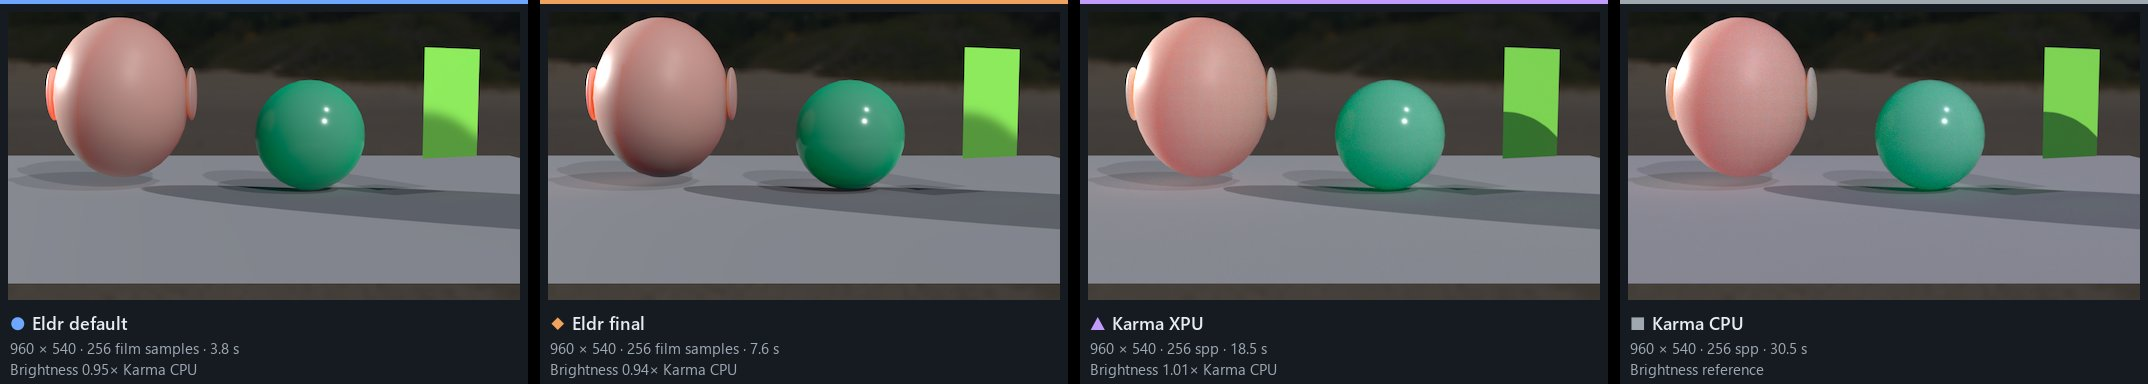
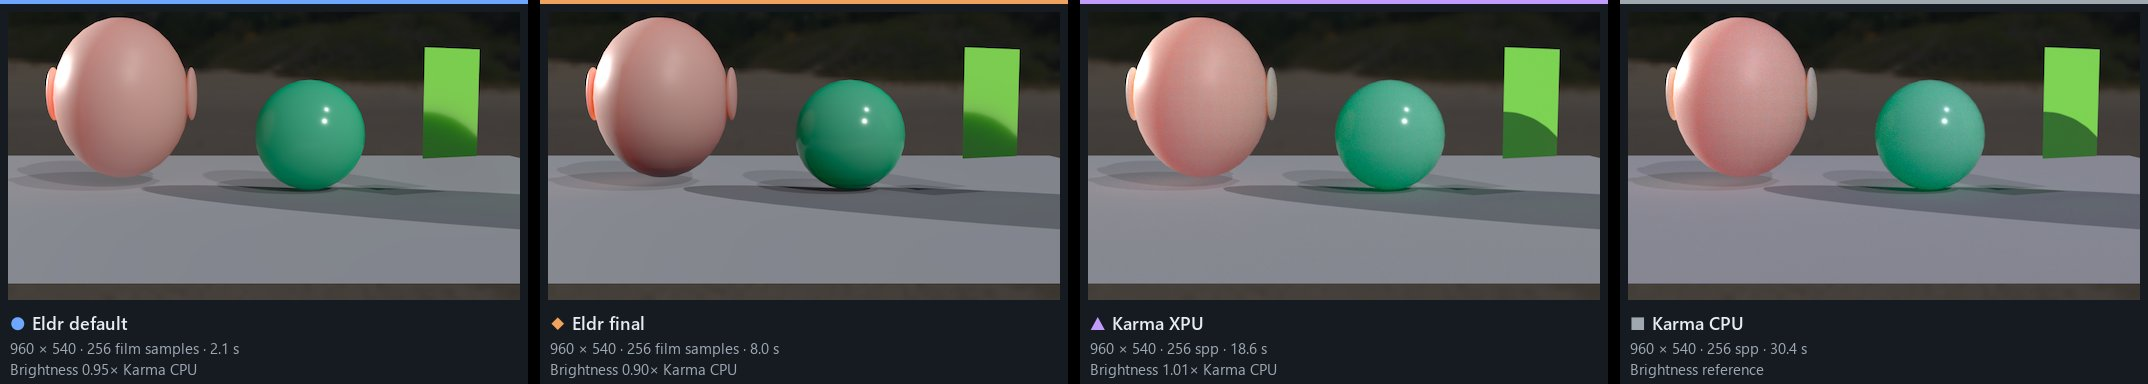
Subsurface on meshes with levels of detail (subdivided spheres blurred nothing), thin-walled leaves reflect only the base share; gallery subsurface images
The subsurface pass drew only a mesh's own command, empty where culling
picked a level: its levels now draw too. Thin-walled subsurface
(standard_surface's translucent_bsdf) transmits its share instead of
reflecting it, so a back-lit leaf shows the shadow of what blocks the sun.

diff --git a/renderer/scene.cpp b/renderer/scene.cpp
@@ -2298,6 +2298,7 @@ void Scene::Commit(bool keepMotion, bool unchanged)
     _gpu.holdouts = false;
     _gpu.subsurface.clear();
     _gpu.subsurfaceVariant.clear();
+    std::vector<uint8_t> scatters(slots);  // the subsurface pass draws the slot (and its levels)
     float lo[3] = {std::numeric_limits<float>::max(), std::numeric_limits<float>::max(),
                    std::numeric_limits<float>::max()};
     float hi[3] = {std::numeric_limits<float>::lowest(), std::numeric_limits<float>::lowest(),
@@ -2409,6 +2410,7 @@ void Scene::Commit(bool keepMotion, bool unchanged)
         if (kind[slot] != Gpu::kTranslucent && mat && mat->Scatters()) {
             _gpu.subsurface.push_back(uint32_t(slot));
             _gpu.subsurfaceVariant.push_back(variant >> 2);
+            scatters[slot] = 1;
         }
         kind[slot] |= variant;
         d.primId = m.primId;
@@ -2509,6 +2511,10 @@ void Scene::Commit(bool keepMotion, bool unchanged)
             if ((kind[slot] & (Gpu::kWide - 1)) == Gpu::kTints) {  // its levels shadow as tints too
                 _gpu.tintCasters.push_back(uint32_t(next));
                 _gpu.tintCasterVariant.push_back(kind[slot] >> 2);
+            }
+            if (scatters[slot]) {  // the subsurface pass draws its levels too
+                _gpu.subsurface.push_back(uint32_t(next));
+                _gpu.subsurfaceVariant.push_back(kind[slot] >> 2);
             }
             weight[next] = double(drawn[slot]) * double(lod.indexCount / 3);
             g.errors[k] = lod.error;

diff --git a/docs/features.md b/docs/features.md
@@ -315,7 +315,7 @@ UsdPreviewSurface `opacityMode` "presence" (without a threshold) scales the whol
 | Material programs (`eldr:materialGraphs`) | Graphs compiled whole into per-pixel programs: math, mix, overlay, clamp, remap, conditionals, HSV, extract/combine, `image`, `tiledimage`, `place2d`, `texcoord`, `geompropvalue`, ramps, `normalmap`, UsdUVTexture, UsdTransform2d, primvar readers, Houdini ramps `hinvlinear` and `huniformramp`. Compositing: plus, minus, difference, burn, dodge, screen, overlay, disjointover, in, mask, matte, out, over, inside, outside, premult, unpremult (genglsl's formulas; burn and dodge read 0 where they would divide by 0). Karma's own nodes: `kma_rampconst` (the ramp baked into a 64-float or 32-colour table over its keys), `kma_color_hextiling` (Houdini's hex tiling: three rotated, scaled, offset tiles blended by weight, falloff and contrast; with `eldr:proceduralTextures`; no `direction`, no `weights` output), `kma_voronoinoise3d` (F1, F2, F3 distances at `position * freq - offset` with the four metrics; MaterialX's cell hash, so other cells than Karma's; unconnected `position` is the object-space point; no `p1`..`p3`). Also fract, round, sign, tan, asin, acos, atan2, magnitude, crossproduct, rotate2d/3d, switch (a constant `which` compiles one input), and/or/not/xor, splitlr/splittb, time/frame (the scene's current frame), geomcolor, tangent/bitangent, viewdirection, artistic_ior, transformmatrix (constant matrices), transformpoint/vector/normal. Nodes defined by a nodegraph (MaterialX's stdlib/pbrlib/nprlib, Houdini's MaterialX library when `$HFS` is set, a document's own nodedefs) are expanded into the nodes Eldr compiles: `contrast`, `colorcorrect`, `ramp4`, `range`, `safepower`, `bump` (with `heighttonormal`, from screen derivatives; flat per vertex and at ray hits; Houdini (Karma context) materials read bump heights in scene units, as Karma), `triplanarprojection`, `unifiednoise3d`, `kma_camerafalloff`, ... Unconnected inputs read their nodedef's `defaultgeomprop` (UV0, Nworld, Pobject). With `eldr:proceduralTextures`: MaterialX noise (noise2d/3d, fractal2d/3d, cellnoise, worleynoise, position, normal), matching Storm. A node Eldr can't compile is bypassed as MaterialX bypasses it (its `defaultinput`, else its first input of the output's type, else the output's default); without a nodedef the input keeps its constant (one warning per node type). Render stats `materialFallbackInputs` and `materialFallbackNodes` (usdview's Eldr > Render Statistics, Houdini's viewport stats) count those inputs and name the nodes; unknown surface shaders count too and warn once. |
 | Without a material (`eldr:defaultMaterialKarma`) | Karma's default material: diffuse 0.4 x `displayColor` (white without one), an untinted GGX highlight of roughness 0.54 and reflectance 0.034 at every angle (no Fresnel rise, as Karma), `displayOpacity` (its first value) as opacity over the whole response. Off: `displayColor` at full strength, opaque, as Storm |
 | Geometry-side | per-vertex `displayColor`, GeomSubsets with materials, any primvar a program names at any rate (including instancer primvars such as Houdini crowd `random`) |
-| Subsurface | Burley's normalized diffusion per channel (`eldr:subsurfaceProfile`; the radius is the mean free path, the colour sets the scattering distance as Christensen-Burley): a disc of importance-sampled taps on the surface, depth-aware, max 256 px; `gaussian`: a separable per-channel Gaussian (taps over 3x the largest radius, max 128 px); thin parts transmit the sun, thin-walled pass it whole where the sun reaches their other side (other casters shadow it) |
+| Subsurface | Burley's normalized diffusion per channel (`eldr:subsurfaceProfile`; the radius is the mean free path, the colour sets the scattering distance as Christensen-Burley): a disc of importance-sampled taps on the surface, depth-aware, max 256 px; `gaussian`: a separable per-channel Gaussian (taps over 3x the largest radius, max 128 px); thin parts transmit the sun; thin-walled ones (leaves) reflect only the base share (1 - subsurface), the rest transmits; thin-walled pass it whole where the sun reaches their other side (other casters shadow it) |
 | Toon | `inputs:eldr:toonBands` on a material, or `eldr:toonBands` globally; `inputs:eldr:toonSoftness` edges; emission untouched |
 
 ## Geometry

diff --git a/docs/settings.md b/docs/settings.md
@@ -280,7 +280,7 @@ Quality controls (steps, radii, resolutions, thresholds) and the remaining on/of
 | Procedural Textures<br>`eldr:proceduralTextures` | on | Evaluates MaterialX noise nodes (noise, fractal, cell and Worley noise) in materials. Off: noise reads 0, which is faster. | fractal3d 0.74 ms, worleynoise3d 0.5 ms (full screen) |
 | Subsurface Scattering<br>`eldr:subsurface` | on | Light spreading under the surface of skin, wax or marble, softening it, plus light shining through thin parts such as ears. Off: such materials shade as opaque. [prepass] | About 0.3 ms, only with subsurface materials |
 | Subsurface Samples<br>`eldr:subsurfaceSamples` | int 15 | Samples of the subsurface blur per direction (1-64). Raise it if skin looks blotchy; Subsurface Quality multiplies it. | |
-| Subsurface Profile<br>`eldr:subsurfaceProfile` | string burley | How far light spreads under the surface: `burley` (Burley's diffusion, as Karma: a soft glow reaching far past the radius) or `gaussian` (a tighter, harder falloff, for comparison). | burley: one pass of twice the samples |
+| Subsurface Profile<br>`eldr:subsurfaceProfile` | string burley | How far light spreads under the surface: `burley` (Burley's diffusion, as Karma: a soft glow reaching far past the radius) or `gaussian` (a tighter, harder falloff, for comparison). | Skin, jade and leaves at 1080p: burley 2.9 ms, gaussian 1.3 ms |
 | Texture Anisotropic Filtering<br>`eldr:anisotropy` | int 16 | Keeps textures sharp on surfaces seen at a grazing angle, such as floors: 1 off, 16 sharpest. | Small |
 | Texture Compression<br>`eldr:textureCompression` | off | Compresses 8-bit material textures on the GPU (cached on disk) to save memory, with a small quality loss. 16-bit, float and light textures stay exact. Off: exact textures, as Karma. | 4x less texture memory (gray: 2x); crowd_9k 172 to 112 MB; 52 dB PSNR vs exact |
 | Textured Transmission and Subsurface Inputs<br>`eldr:texturedTransmission` | on | Transmission (colour, depth, thin walled) and subsurface (weight, colour, radius, scale) inputs may be driven by textures or shading networks. Off: their constant values only. | |
